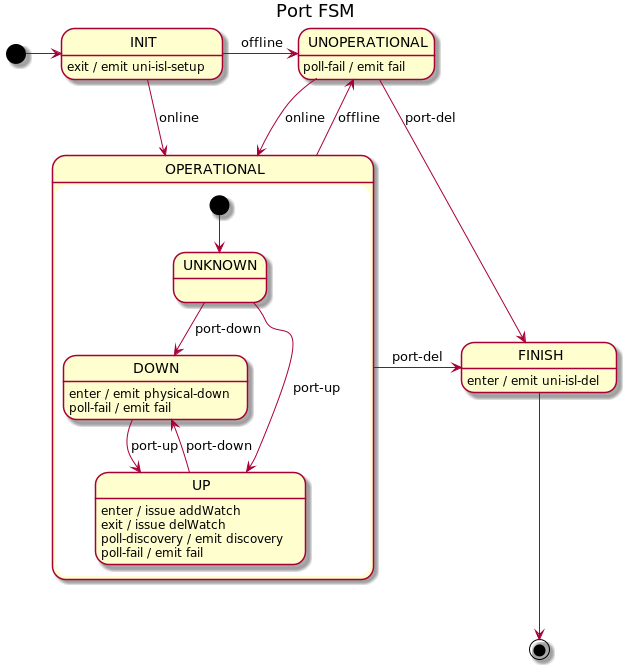
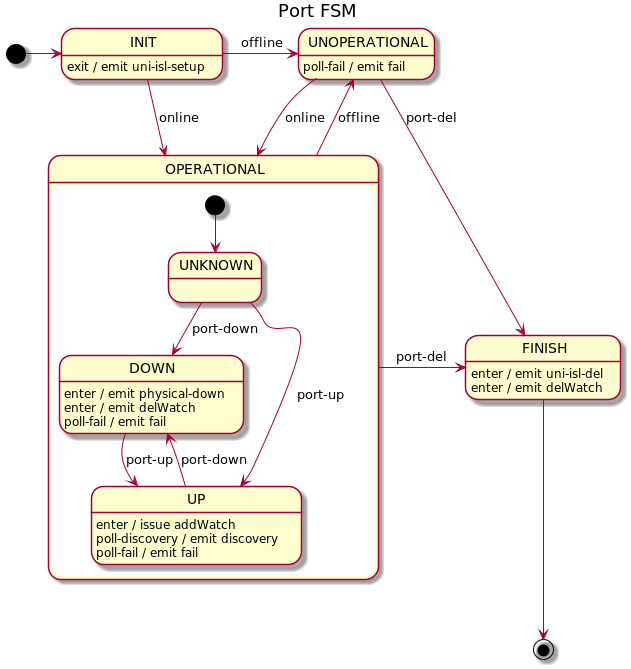
Do not disable discovery poll on switch disconnect
If we remove port(all switch ports) from discovery poll list and if both
ISL switches are disconnected - ISL will never become inactive. Because
DM will not produce FAIL for "removed" ports.

From other side if we keep "offline" ports in poll list we will produce
discovery-push requests for them and as result produce errors on FL
side.

diff --git a/services/wfm/src/main/java/org/openkilda/wfm/topology/discovery/controller/PortFsm.java b/services/wfm/src/main/java/org/openkilda/wfm/topology/discovery/controller/PortFsm.java
@@ -81,9 +81,7 @@ public final class PortFsm extends AbstractBaseFsm<PortFsm, PortFsmState, PortFs
         builder.internalTransition().within(PortFsmState.UP).on(PortFsmEvent.FAIL)
                 .callMethod("proxyFail");
         builder.onEntry(PortFsmState.UP)
-                .callMethod("enableDiscoveryPoll");
-        builder.onExit(PortFsmState.UP)
-                .callMethod("disableDiscoveryPoll");
+                .callMethod("upEnter");
 
         // DOWN
         builder.transition()
@@ -118,13 +116,8 @@ public final class PortFsm extends AbstractBaseFsm<PortFsm, PortFsmState, PortFs
         context.getOutput().setupUniIslHandler(endpoint, history);
     }
 
-    protected void enableDiscoveryPoll(PortFsmState from, PortFsmState to, PortFsmEvent event, PortFsmContext context) {
+    protected void upEnter(PortFsmState from, PortFsmState to, PortFsmEvent event, PortFsmContext context) {
         context.getOutput().enableDiscoveryPoll(endpoint);
-    }
-
-    protected void disableDiscoveryPoll(PortFsmState from, PortFsmState to, PortFsmEvent event,
-                                        PortFsmContext context) {
-        context.getOutput().disableDiscoveryPoll(endpoint);
     }
 
     protected void proxyDiscovery(PortFsmState from, PortFsmState to, PortFsmEvent event, PortFsmContext context) {
@@ -137,11 +130,13 @@ public final class PortFsm extends AbstractBaseFsm<PortFsm, PortFsmState, PortFs
 
     protected void downEnter(PortFsmState from, PortFsmState to, PortFsmEvent event, PortFsmContext context) {
         IPortCarrier output = context.getOutput();
+        output.disableDiscoveryPoll(endpoint);
         output.notifyPortPhysicalDown(endpoint);
     }
 
     protected void finish(PortFsmState from, PortFsmState to, PortFsmEvent event, PortFsmContext context) {
         IPortCarrier output = context.getOutput();
+        output.disableDiscoveryPoll(endpoint);
         output.removeUniIslHandler(endpoint);
     }
 
